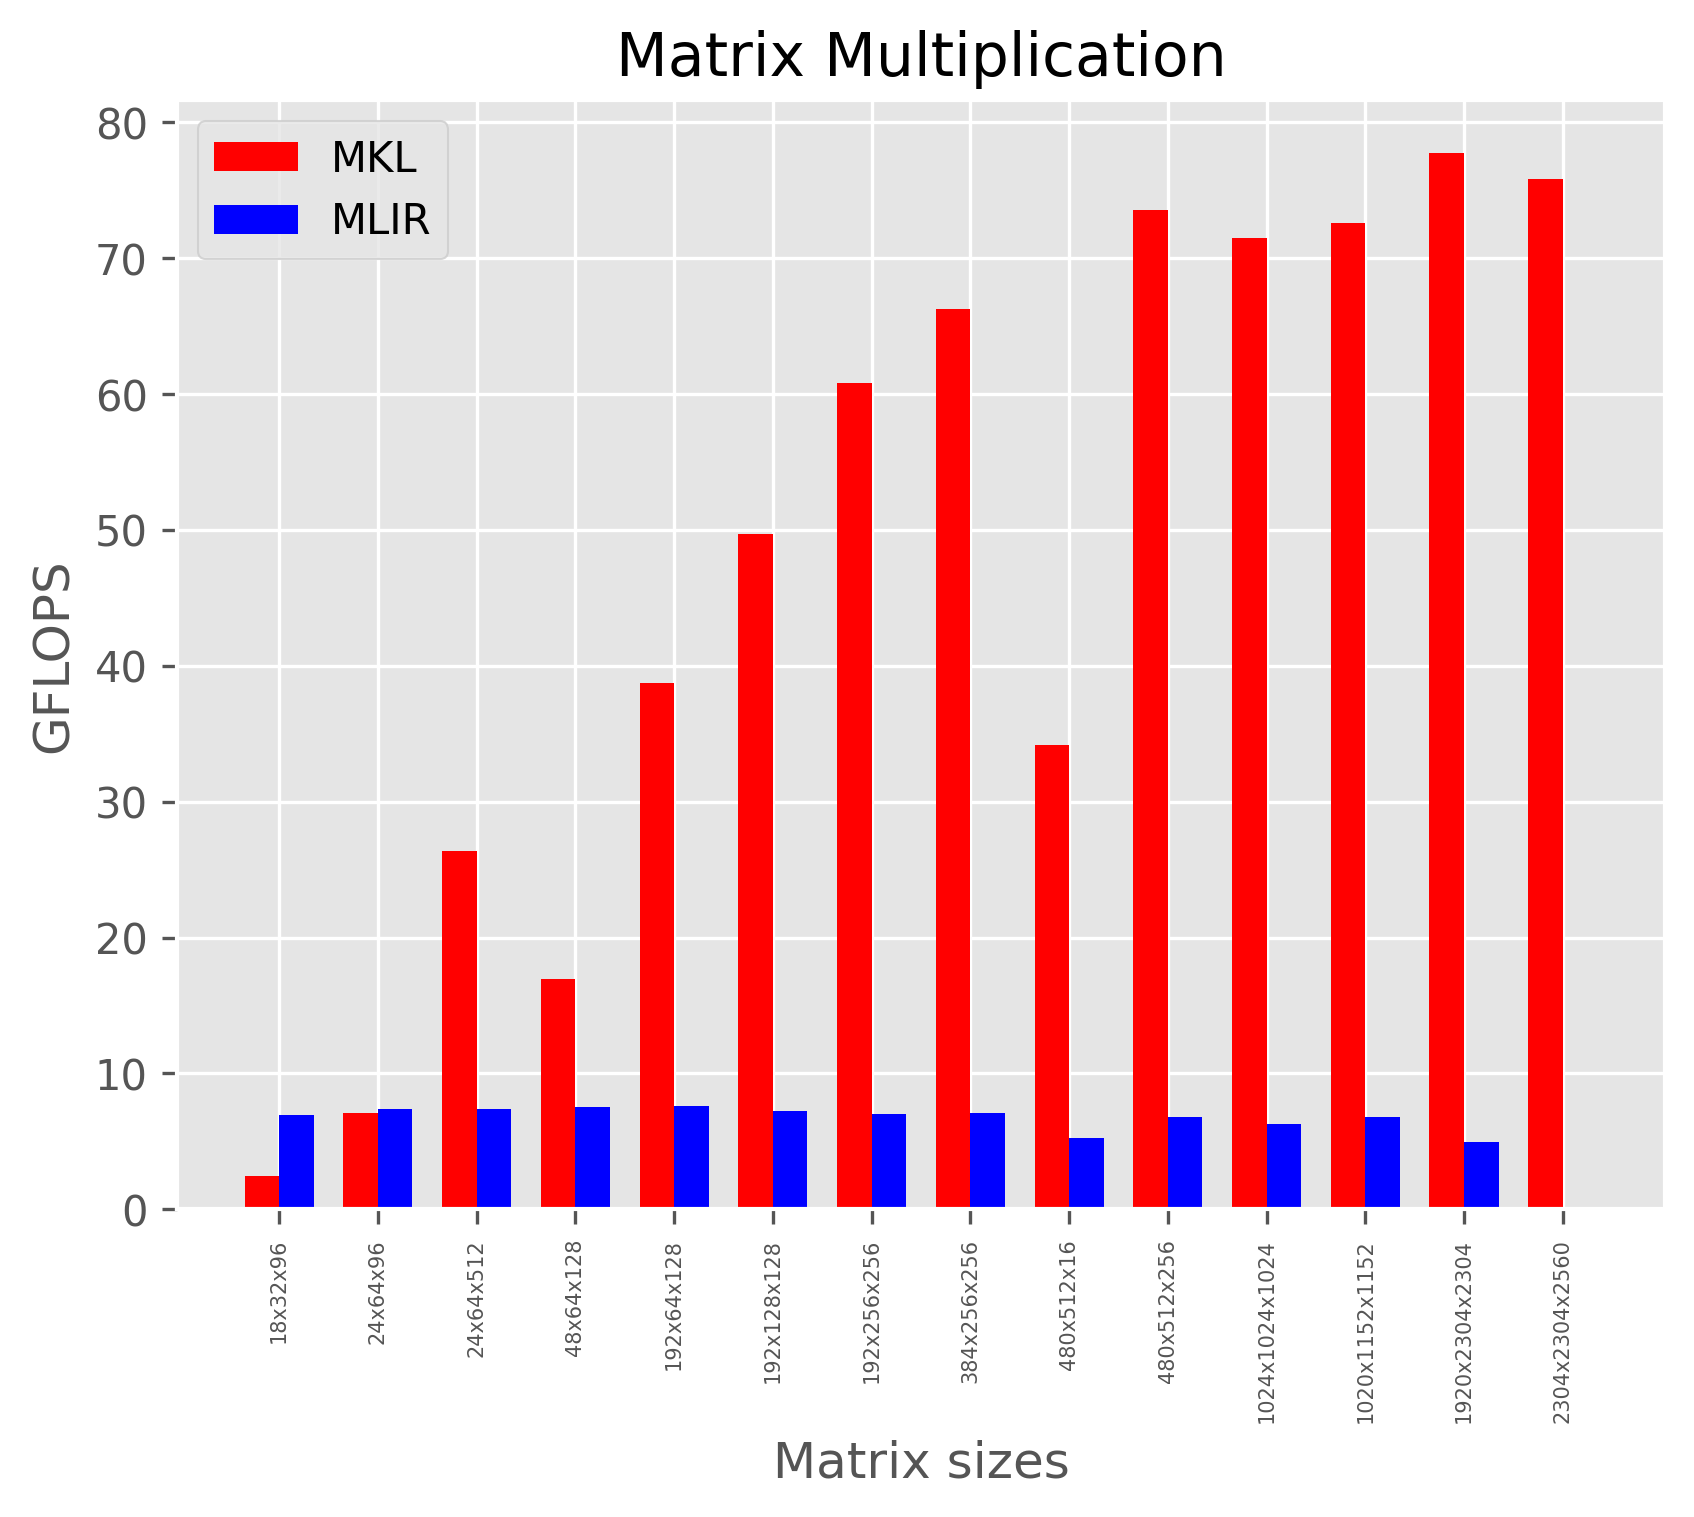
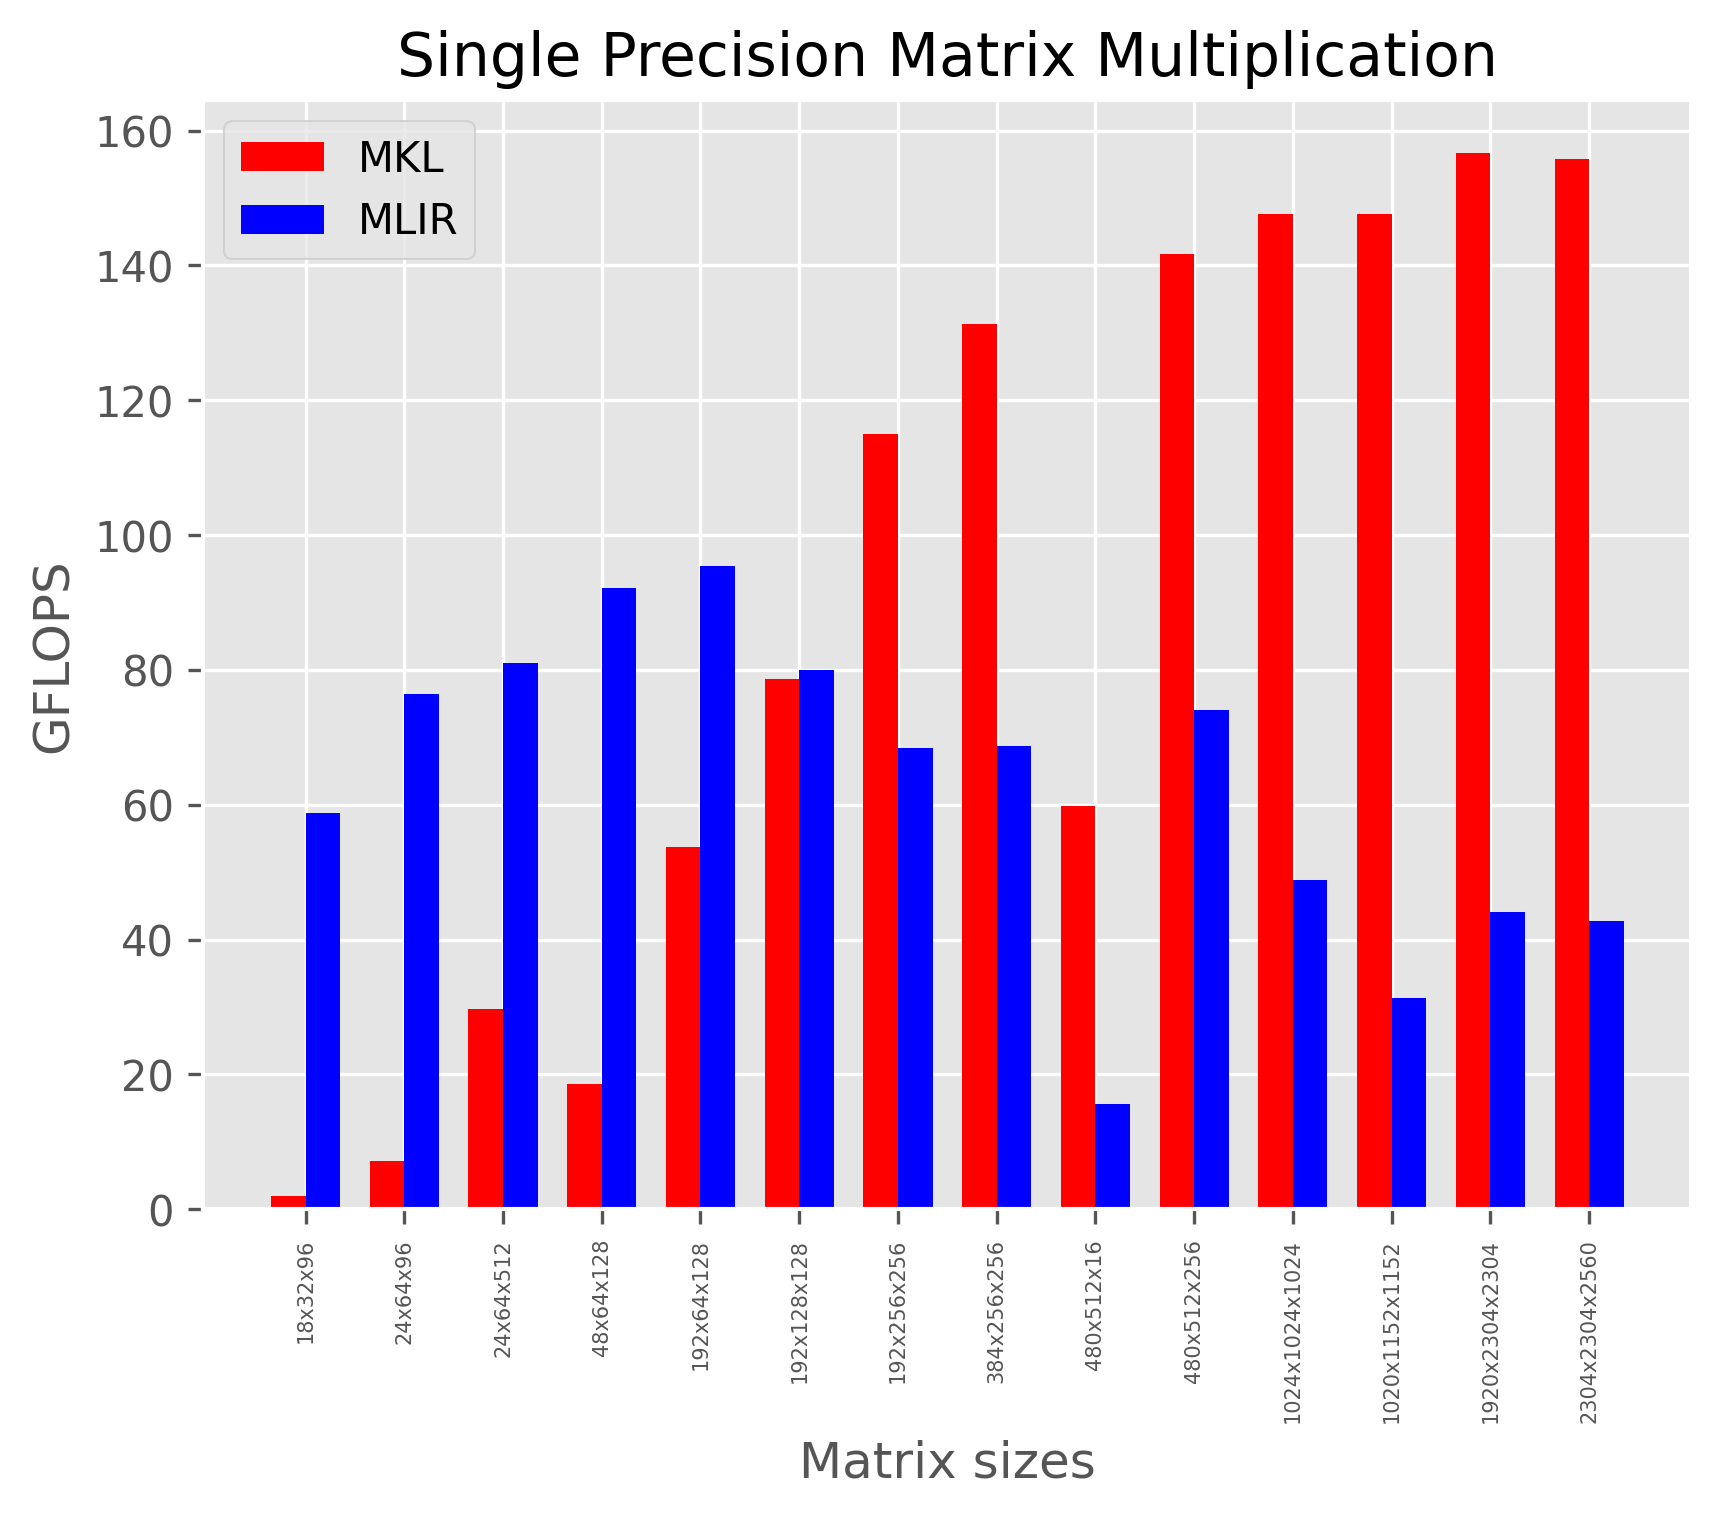
Update based on Nicolas' suggestions
- Switched to f32
- Updated MKL benchmarks
- Modified compiler flags and linalg codegen pass as per
  Nicolas' patch

diff --git a/Codegen/matmul/matmul-compile/matmul-compile.cpp b/Codegen/matmul/matmul-compile/matmul-compile.cpp
@@ -66,6 +66,16 @@ struct LinalgCodegenPass : public PassWrapper<LinalgCodegenPass, FunctionPass> {
 }  // namespace
 
 void LinalgCodegenPass::runOnFunction() {
+  MLIRContext *ctx = getFunction().getContext();
+  SmallVector<Attribute, 4> attrs;
+  attrs.push_back(ArrayAttr::get({StringAttr::get("prefer-vector-width", ctx),
+                                  StringAttr::get("512", ctx)},
+                                  ctx));
+  attrs.push_back(ArrayAttr::get({StringAttr::get("target-cpu", ctx),
+                                  StringAttr::get("skylake-avx512", ctx)},
+                                  ctx));
+  getFunction()->setAttr("passthrough", ArrayAttr::get(attrs, ctx));
+
   std::string vectorizeContractionTo("outerproduct");
   std::string splitVectorTransfersTo("vector-transfers");
   bool registerPromoteFullTile{true};
@@ -88,24 +98,15 @@ void LinalgCodegenPass::runOnFunction() {
   // Small and medium codegen
   if (M < 1000) {
     LinalgTilingOptions tilingOptions;
-    llvm::SmallVector<int64_t, 4> tileSizes{6, 32, 16};
+    llvm::SmallVector<int64_t, 4> tileSizes{6, 16, 16};
     if (!tileSizes.empty())
       tilingOptions = tilingOptions.setTileSizes(tileSizes);
-
-    LinalgTilingOptions registerTilingOptions;
-    llvm::SmallVector<int64_t, 4> registerTileSizes{2, 4, 8};
-    if (!registerTileSizes.empty())
-      registerTilingOptions = registerTilingOptions.setTileSizes(registerTileSizes);
 
     CodegenStrategy strategy;
     strategy.tile<MatmulOp>(tilingOptions)
         .promote<MatmulOp>(LinalgPromotionOptions()
 			      .setAlignment(16)
 			      .setUseFullTileBuffersByDefault(true))
-        .tile<MatmulOp>(registerTilingOptions)
-        .promote<MatmulOp>(LinalgPromotionOptions()
-                              .setAlignment(16)
-                              .setUseFullTileBuffersByDefault(registerPromoteFullTile))
         .vectorize<MatmulOp>()
         .setVectorTransformsOptions(
             vector::VectorTransformsOptions()
@@ -125,7 +126,7 @@ void LinalgCodegenPass::runOnFunction() {
       CodegenStrategy strategyCaches;
       strategyCaches
         .tile<MatmulOp>(LinalgTilingOptions()
-			.setTileSizes({192, 256, 256})
+			.setTileSizes({128, 128, 256})
 			.setInterchange({0, 2, 1}))
         .promote<MatmulOp>(LinalgPromotionOptions()
 			   .setOperandsToPromote({0, 1})
@@ -138,7 +139,18 @@ void LinalgCodegenPass::runOnFunction() {
     {
       CodegenStrategy strategyRegisters;
       strategyRegisters
-        .tile<CopyOp>(LinalgTilingOptions().setTileSizes({4, 32}))
+        .tile<FillOp>(LinalgTilingOptions().setTileSizes({4, 16}))
+        .vectorize<FillOp>()
+        .setVectorTransferToSCFOptions(
+            VectorTransferToSCFOptions().setUnroll(unrollVectorTransfers));
+
+      strategyRegisters.transform(getFunction());
+    }
+
+    {
+      CodegenStrategy strategyRegisters;
+      strategyRegisters
+        .tile<CopyOp>(LinalgTilingOptions().setTileSizes({4, 16}))
         .vectorize<CopyOp>()
         .setVectorTransferToSCFOptions(
             VectorTransferToSCFOptions().setUnroll(unrollVectorTransfers));
@@ -150,7 +162,7 @@ void LinalgCodegenPass::runOnFunction() {
     {
       CodegenStrategy strategyRegisters;
       strategyRegisters
-        .tile<CopyOp>(LinalgTilingOptions().setTileSizes({6, 32, 16}))
+        .tile<MatmulOp>(LinalgTilingOptions().setTileSizes({8, 16, 8}))
         .promote<MatmulOp>(LinalgPromotionOptions()
                              .setUseFullTileBuffersByDefault(registerPromoteFullTile)
 			   .setAlignment(128))
@@ -165,6 +177,8 @@ void LinalgCodegenPass::runOnFunction() {
       strategyRegisters.transform(getFunction());
     }
   }
+
+  //getFunction().dump();
 }
 
 std::unique_ptr<OperationPass<FuncOp>> createLinalgCodegenPass(int M, int N, int K) {
@@ -213,6 +227,7 @@ static void get_dimensions(const std::string filename, int &M, int &N, int &K) {
 Error compile(Options &options, mlir::DialectRegistry &registry) {
   MLIRContext context;
   registry.loadAll(&context);
+  llvm::errs() << "Read file: " << options.inputFile << "\n";
   OwningModuleRef moduleRef = parseSourceFile(options.inputFile, &context);
   if (!moduleRef)
     return make_string_error(Twine("could not open ") + options.inputFile);
@@ -221,6 +236,7 @@ Error compile(Options &options, mlir::DialectRegistry &registry) {
   PassManager pm(module.getContext(), OpPassManager::Nesting::Implicit);
   int M, N, K;
   get_dimensions(options.inputFile, M, N, K);
+  pm.addPass(createCanonicalizerPass());
   pm.addPass(createLinalgCodegenPass(M, N, K));
 
   // Lower to LLVM

diff --git a/Codegen/matmul/main.c b/Codegen/matmul/main.c
@@ -10,18 +10,18 @@
 #define TO_STRING(x) STRING(x)
 
 struct memref_t {
-  double *aligned;
-  double *allocated;
+  float *aligned;
+  float *allocated;
   int64_t offset;
   int64_t sizes[2];
   int64_t strides[2];
 };
 
-void matmul(double *aligned_a, double *allocated_a, int64_t offset_a,
+void matmul(float *aligned_a, float *allocated_a, int64_t offset_a,
             int64_t size_a0, int64_t size_a1, int64_t strides_a0, int64_t strides_a1,
-            double *aligned_b, double *allocated_b, int64_t offset_b,
+            float *aligned_b, float *allocated_b, int64_t offset_b,
             int64_t size_b0, int64_t size_b1, int64_t strides_b0, int64_t strides_b1,
-            double *aligned_c, double *allocated_c, int64_t offset_c,
+            float *aligned_c, float *allocated_c, int64_t offset_c,
             int64_t size_c0, int64_t size_c1, int64_t strides_c0, int64_t strides_c1);
 
 double rtclock() {
@@ -33,10 +33,10 @@ double rtclock() {
   return (Tp.tv_sec + Tp.tv_usec * 1.0e-6);
 }
 
-void init_matrix(double *a, int nrows, int ncols) {
+void init_matrix(float *a, int nrows, int ncols) {
   for (int j = 0; j < ncols; j++) {
     for (int i = 0; i < nrows; i++) {
-      a[i + j * nrows] = ((double) rand()) / RAND_MAX;
+      a[i + j * nrows] = ((float) rand() / (float) RAND_MAX);
     }
   }
 }
@@ -49,9 +49,9 @@ int main(int argc, char **argv) {
 #endif
   double t_start, t_end;
   t_start = rtclock();
-  double *A = (double *) malloc(MDIM * KDIM * sizeof(double));
-  double *B = (double *) malloc(KDIM * NDIM * sizeof(double));
-  double *C = (double *) malloc(MDIM * NDIM * sizeof(double));
+  float *A = (float *) malloc(MDIM * KDIM * sizeof(float));
+  float *B = (float *) malloc(KDIM * NDIM * sizeof(float));
+  float *C = (float *) malloc(MDIM * NDIM * sizeof(float));
   init_matrix(A, MDIM, KDIM);
   init_matrix(B, KDIM, NDIM);
   init_matrix(C, MDIM, NDIM);
@@ -59,12 +59,12 @@ int main(int argc, char **argv) {
   int LDA = MDIM;
   int LDB = KDIM;
   int LDC = MDIM;
-  double alpha = 1.0;
-  double beta = 1.0;
+  float alpha = 1.0;
+  float beta = 1.0;
 
   for (int t = 0; t < NUM_REPS; ++t) {
 #ifdef MKL
-    cblas_dgemm(CblasColMajor, CblasNoTrans, CblasNoTrans, MDIM, NDIM, KDIM, alpha,
+    cblas_sgemm(CblasColMajor, CblasNoTrans, CblasNoTrans, MDIM, NDIM, KDIM, alpha,
                 A, LDA, B, LDB, beta, C, LDC);
 #else
     matmul(A, A, 0, MDIM, KDIM, 1, LDA,
@@ -77,8 +77,11 @@ int main(int argc, char **argv) {
   FILE *file = fopen(filename, "w");
   fprintf(file, "%0.2lf GFLOPS\n", 2.0 * NUM_REPS * MDIM * NDIM * KDIM / (t_end - t_start) / 1E9);
   fclose(file);
+#if 0
+  // TODO: For the largest 3 matrix sizes in MLIR, this throws a munmap_chunk(): invalid_pointer
   free(A);
   free(B);
   free(C);
+#endif
   return 0;
 }

diff --git a/Codegen/matmul/mlir/generate_mlir.py b/Codegen/matmul/mlir/generate_mlir.py
@@ -6,9 +6,9 @@ sizes = ["18x32x96", "24x64x96" ,"24x64x512" ,"48x64x128" ,"192x64x128" , \
 ]
 
 code = '''\
-func @matmul(%a: memref<{M}x{K}xf64>, %b: memref<{K}x{N}xf64>, %c: memref<{M}x{N}xf64>) {{
-  linalg.matmul ins(%a, %b : memref<{M}x{K}xf64>, memref<{K}x{N}xf64>)
-    outs(%c: memref<{M}x{N}xf64>)
+func @matmul(%a: memref<{M}x{K}xf32>, %b: memref<{K}x{N}xf32>, %c: memref<{M}x{N}xf32>) {{
+  linalg.matmul ins(%a, %b : memref<{M}x{K}xf32>, memref<{K}x{N}xf32>)
+    outs(%c: memref<{M}x{N}xf32>)
   return
 }}'''
 

diff --git a/Codegen/plot_results.py b/Codegen/plot_results.py
@@ -41,7 +41,7 @@ if __name__ == "__main__":
 
     plt.xlabel("Matrix sizes")
     plt.ylabel("GFLOPS")
-    plt.title("Matrix Multiplication")
+    plt.title("Single Precision Matrix Multiplication")
     x_pos = [i + 0.5 * width for i, _ in enumerate(sizes)]
     plt.xticks(x_pos, sizes, rotation=90, fontsize=5)
     plt.legend(loc='best')

diff --git a/Codegen/README.md b/Codegen/README.md
@@ -47,4 +47,5 @@ The linalg codegen pass is in matmul/matmul-compile/matmul-compile.cpp.
 ### Hardware information
 
 This benchmark was run on an Intel Xeon CPU running at 3.1GHz. The machine has 256Kb L1 cache, 8Mb L2 cache and 24.8Mb L3 cache.
-It supports AVX-512 instructions. The peak performance of the machine is 3.1 x 8 x 2 x 2 = 99.2 GFLOPS for double precision.
+It supports AVX-512 instructions. The peak performance of the machine is 3.1 x 8 x 2 x 2 = 99.2 GFLOPS for double precision
+and 198.4 GFLOPS for single precision.
